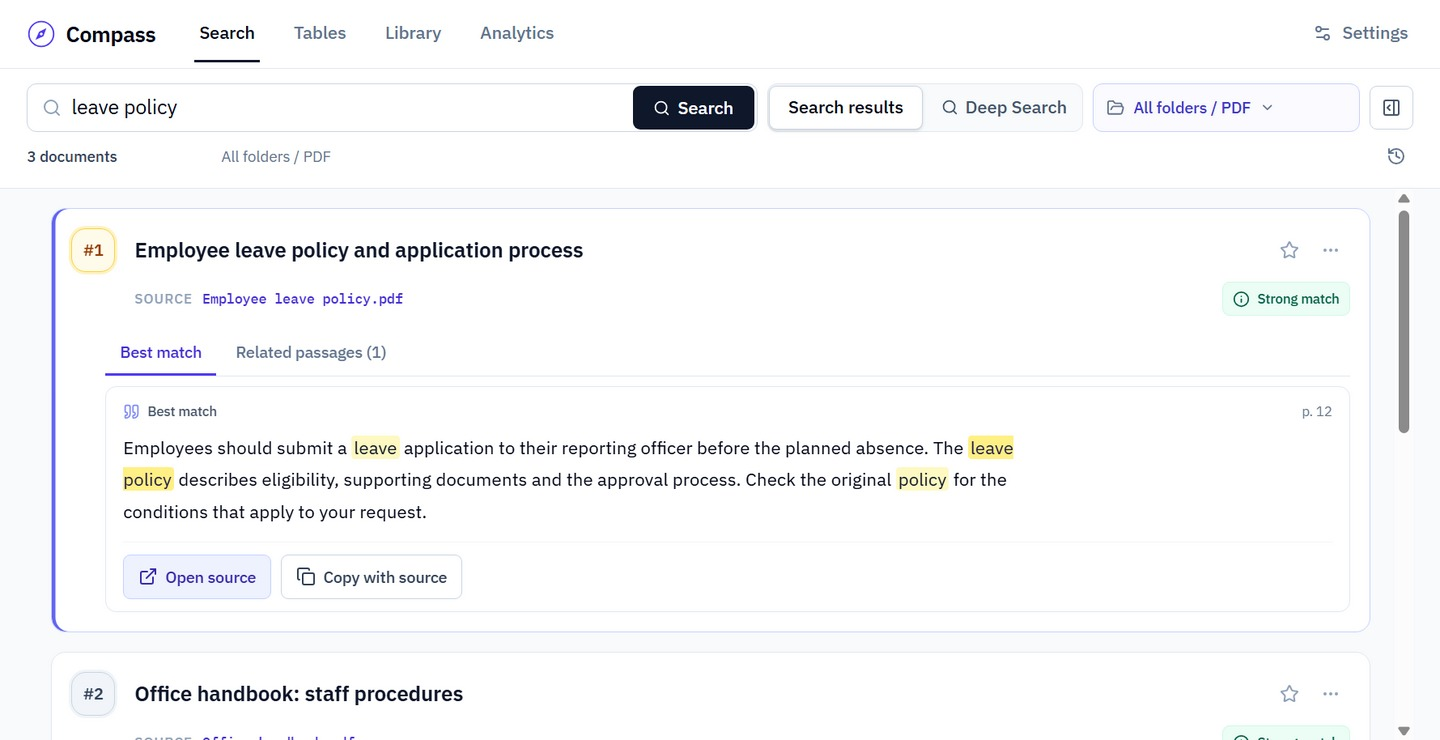
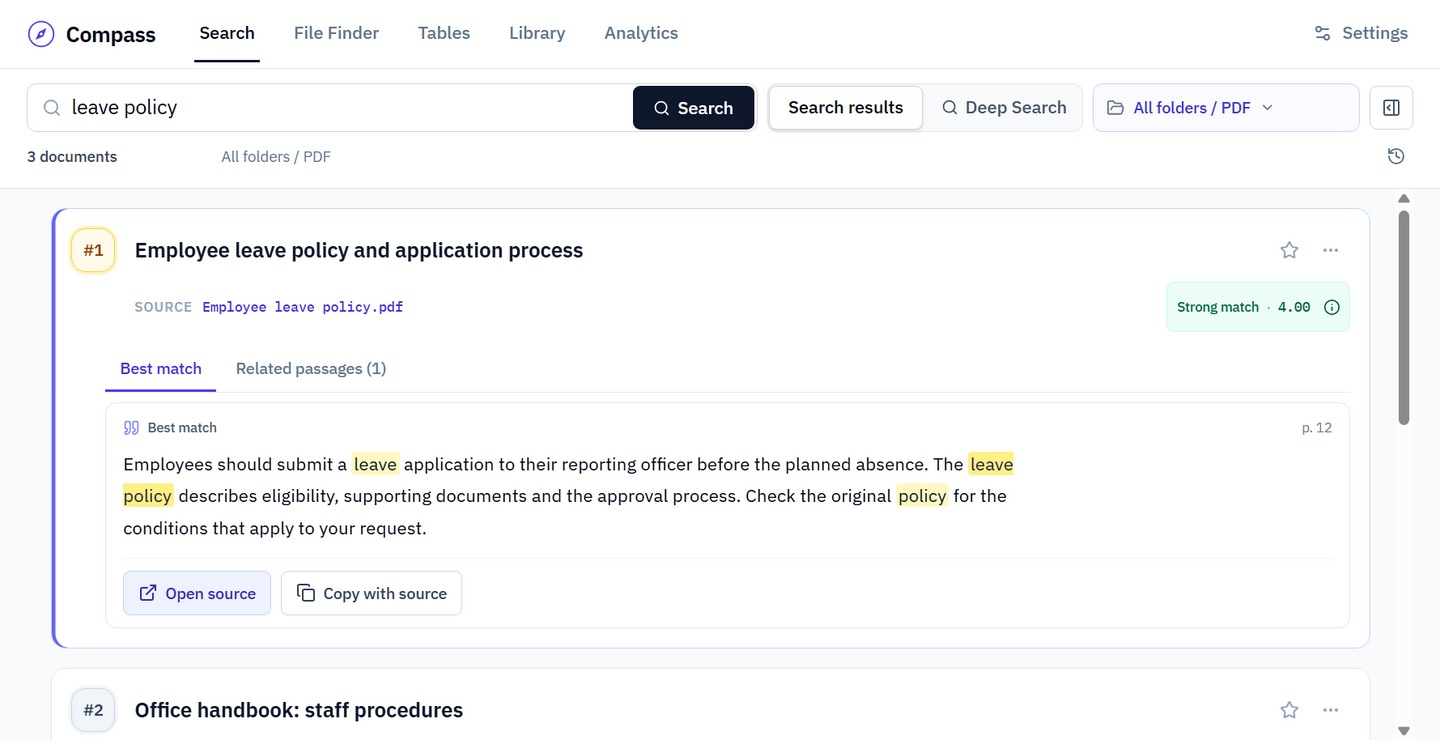
Update Compass download page for 0.1.8

diff --git a/index.html b/index.html
@@ -29,13 +29,13 @@
       <h1 id="hero-title">Your documents.<br>Searchable.<br><em>On your computer.</em></h1>
       <p class="lead">Find the document, passage or table you remember. Compass turns the files already on your computer into a private, searchable library.</p>
       <a class="button primary" href="https://github.com/leapfrog7/compass/releases/latest/download/Compass-Setup.exe"><svg viewBox="0 0 24 24" fill="none" stroke="currentColor" stroke-width="1.7" aria-hidden="true"><path d="M12 3v12m-5-5 5 5 5-5M4 16v5h16v-5"/></svg>Download Compass for Windows</a>
-      <p class="download-meta">Version 0.1.7 <span aria-hidden="true">/</span> Windows x64 <span aria-hidden="true">/</span> Local processing</p>
+      <p class="download-meta">Version 0.1.8 <span aria-hidden="true">/</span> Windows x64 <span aria-hidden="true">/</span> Local processing</p>
       <a class="text-link" href="#requirements">Requirements &amp; installation notes <span aria-hidden="true">↓</span></a>
     </div>
     <figure class="preview-wrap">
       <div class="figure-label"><span>In the application</span><span aria-hidden="true">01 — Search &amp; verify</span></div>
-      <a class="preview-link" href="assets/compass-search.jpg?v=0.1.7" target="_blank" rel="noopener" aria-label="Open full-size Compass screenshot (new tab)"><img src="assets/compass-search.jpg?v=0.1.7" width="1440" height="740" alt="Actual Compass search results for leave policy: a highlighted passage on page 12, related passages, and an Open source button. Sample documents." fetchpriority="high" decoding="async"></a>
-      <figcaption><span>Actual Compass interface. Sample documents.</span><a href="assets/compass-search.jpg?v=0.1.7" target="_blank" rel="noopener">View full size <span aria-hidden="true">↗</span><span class="sr-only"> (new tab)</span></a></figcaption>
+      <a class="preview-link" href="assets/compass-search.jpg?v=0.1.8" target="_blank" rel="noopener" aria-label="Open full-size Compass screenshot (new tab)"><img src="assets/compass-search.jpg?v=0.1.8" width="1440" height="740" alt="Actual Compass search results for leave policy: a highlighted passage on page 12, related passages, and an Open source button. Sample documents." fetchpriority="high" decoding="async"></a>
+      <figcaption><span>Actual Compass interface. Sample documents.</span><a href="assets/compass-search.jpg?v=0.1.8" target="_blank" rel="noopener">View full size <span aria-hidden="true">↗</span><span class="sr-only"> (new tab)</span></a></figcaption>
       <p class="source-note"><span aria-hidden="true">↳</span> From a search result, straight to the original source.</p>
     </figure>
   </section>
@@ -63,12 +63,12 @@
       <figure class="search-example">
         <p class="walkthrough-label">Search whenever you need it</p>
         <h3>“Where is the leave policy?”</h3>
-        <a class="result-example" href="assets/compass-search.jpg?v=0.1.7" target="_blank" rel="noopener" aria-label="Inspect this real Compass search example at full size (new tab)"><img src="assets/compass-search.jpg?v=0.1.7" width="1440" height="740" loading="lazy" decoding="async" alt="Compass finds the Employee leave policy, highlights the matching passage on page 12 and offers Open source to verify it."></a>
-        <figcaption><span>Actual Compass search · sample documents</span><a href="assets/compass-search.jpg?v=0.1.7" target="_blank" rel="noopener">Inspect the result <span aria-hidden="true">↗</span><span class="sr-only"> (new tab)</span></a></figcaption>
+        <a class="result-example" href="assets/compass-search.jpg?v=0.1.8" target="_blank" rel="noopener" aria-label="Inspect this real Compass search example at full size (new tab)"><img src="assets/compass-search.jpg?v=0.1.8" width="1440" height="740" loading="lazy" decoding="async" alt="Compass finds the Employee leave policy, highlights the matching passage on page 12 and offers Open source to verify it."></a>
+        <figcaption><span>Actual Compass search · sample documents</span><a href="assets/compass-search.jpg?v=0.1.8" target="_blank" rel="noopener">Inspect the result <span aria-hidden="true">↗</span><span class="sr-only"> (new tab)</span></a></figcaption>
         <p class="walkthrough-copy">Search <strong>leave policy</strong>. Read the matching passage, then choose <strong>Open source</strong> to check the original. Search gets you there; the document is still your reference.</p>
       </figure>
     </div>
-    <div class="formats"><span>Works with</span><ul aria-label="Supported formats"><li>PDF</li><li>Word <small>.docx</small></li><li>PowerPoint <small>.pptx</small></li><li>Excel <small>.xlsx</small></li><li>Text <small>.txt</small></li><li>Markdown <small>.md</small></li></ul><p>Excel workbooks up to 5 MB. English OCR for scanned PDFs. PowerPoint images are not indexed.</p></div>
+    <div class="formats"><span>Works with</span><ul aria-label="Supported formats"><li>PDF</li><li>Word <small>.docx</small></li><li>PowerPoint <small>.pptx</small></li><li>Excel <small>.xlsx</small></li><li>Text <small>.txt</small></li><li>Markdown <small>.md</small></li></ul><p>Excel workbooks up to 5 MB. English, Hindi and bilingual OCR for scanned PDFs (English is the default). PowerPoint images are not indexed.</p></div>
   </section>
 
   <section class="privacy" aria-labelledby="privacy-title">
@@ -96,7 +96,7 @@
   </section>
 
   <section id="download" class="download-section shell section-rule" aria-labelledby="download-title">
-    <div class="download-copy"><p class="eyebrow">Compass for Windows</p><h2 id="download-title">Build your own<br>searchable<br>document library.</h2><a class="button primary" href="https://github.com/leapfrog7/compass/releases/latest/download/Compass-Setup.exe"><svg viewBox="0 0 24 24" fill="none" stroke="currentColor" stroke-width="1.7" aria-hidden="true"><path d="M12 3v12m-5-5 5 5 5-5M4 16v5h16v-5"/></svg>Download Compass for Windows</a><p class="download-meta">Version 0.1.7 · Offline search and OCR models included</p><ul class="download-facts" aria-label="At a glance"><li>Windows 10/11</li><li>x64</li><li>Local processing</li><li>No document uploads</li></ul></div>
+    <div class="download-copy"><p class="eyebrow">Compass for Windows</p><h2 id="download-title">Build your own<br>searchable<br>document library.</h2><a class="button primary" href="https://github.com/leapfrog7/compass/releases/latest/download/Compass-Setup.exe"><svg viewBox="0 0 24 24" fill="none" stroke="currentColor" stroke-width="1.7" aria-hidden="true"><path d="M12 3v12m-5-5 5 5 5-5M4 16v5h16v-5"/></svg>Download Compass for Windows</a><p class="download-meta">Version 0.1.8 · Offline search and OCR models included</p><ul class="download-facts" aria-label="At a glance"><li>Windows 10/11</li><li>x64</li><li>Local processing</li><li>No document uploads</li></ul></div>
     <div id="requirements" class="requirements"><h3>Before you install</h3><dl><div><dt>System</dt><dd>Windows 10 or 11, 64-bit (x64). A compatible <a href="https://aka.ms/vc14/vc_redist.x64.exe">Microsoft Visual C++ x64 runtime</a> is required. Compass checks this at startup and provides guidance if a repair is needed.</dd></div><div><dt>Space</dt><dd>About 1 GB for Compass, plus room for your source files and local search index.</dd></div><div><dt>Windows notice</dt><dd>The current build is unsigned. Follow your organisation’s software and security policies.</dd></div><div><dt>Your library</dt><dd>Library data and settings are stored separately from the application. App updates do not require rebuilding an unchanged library.</dd></div></dl><details class="technical"><summary>Other downloads &amp; release details</summary><div><a href="https://github.com/leapfrog7/compass/releases/latest">Portable ZIP &amp; release notes <span aria-hidden="true">↗</span></a><a href="https://github.com/leapfrog7/compass/releases/latest/download/SHA256SUMS.txt">SHA256 checksums <span aria-hidden="true">↗</span></a><a href="https://github.com/leapfrog7/compass">GitHub <span aria-hidden="true">↗</span></a><p>The portable ZIP runs without an installer. Your saved Library stays on the computer; the ZIP does not carry it between PCs.</p></div></details></div>
   </section>
 </main>

diff --git a/README.md b/README.md
@@ -3,7 +3,7 @@
 **Your documents. Searchable. On your computer.**
 
 Compass searches the files already on your computer. Local document search,
-source verification, Deep Search, Analytics, English OCR and PDF table extraction.
+source verification, Deep Search, Analytics, English/Hindi OCR and PDF table extraction.
 
 - Website: https://leapfrog7.github.io/compass/
 - Latest stable release: https://github.com/leapfrog7/compass/releases/latest
